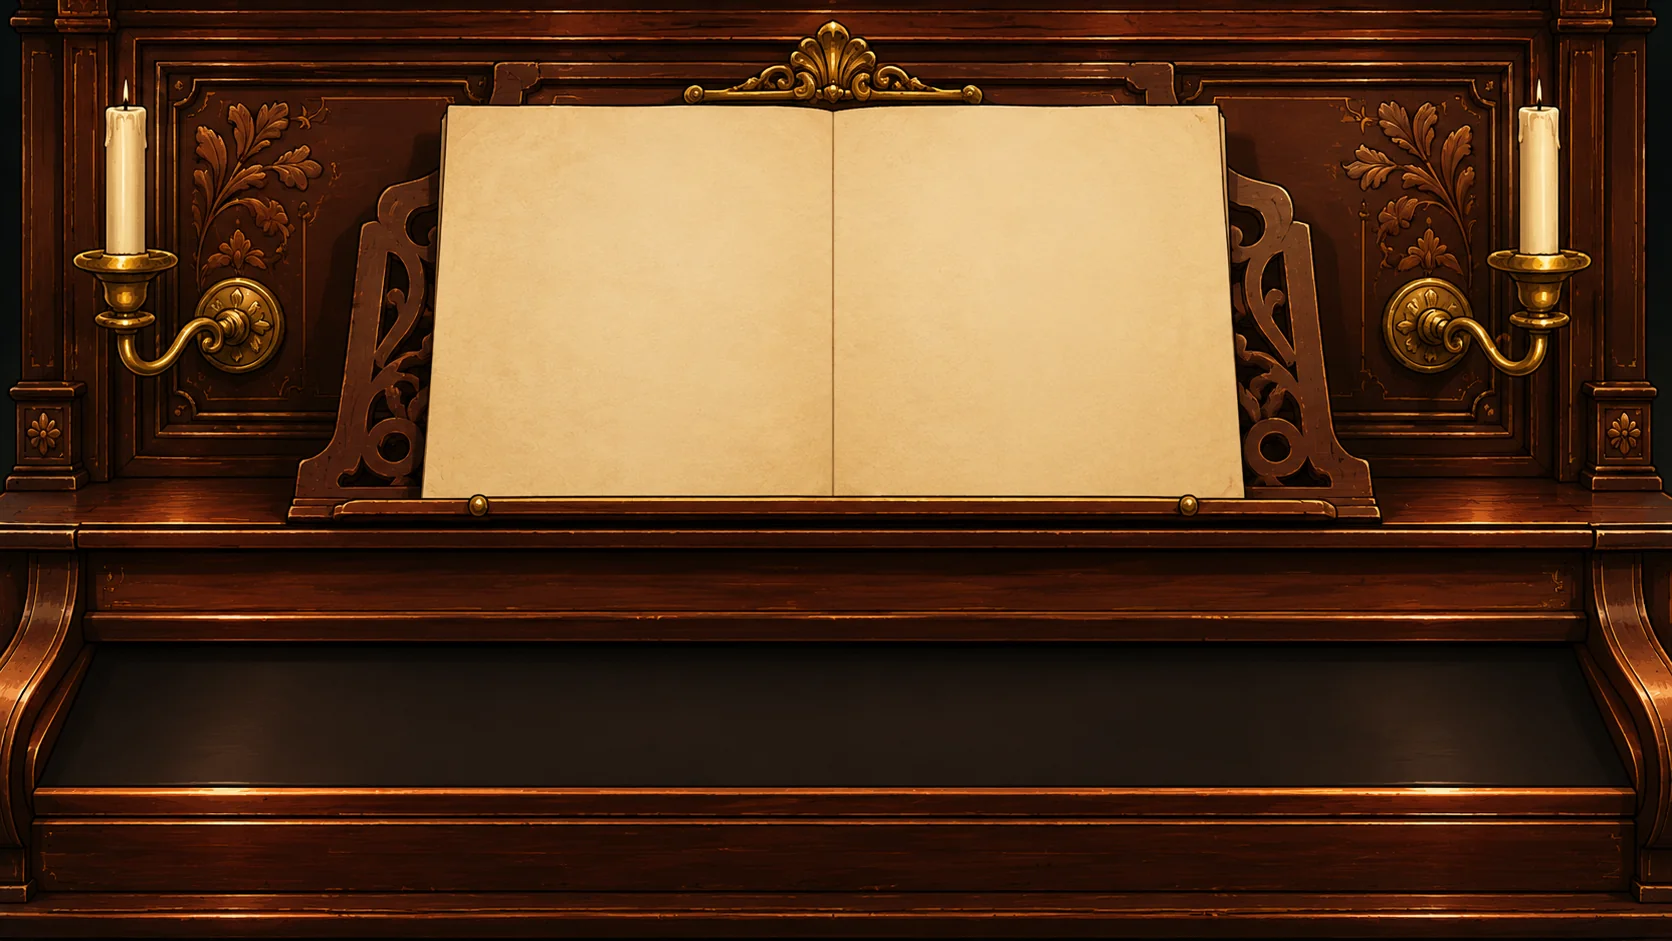
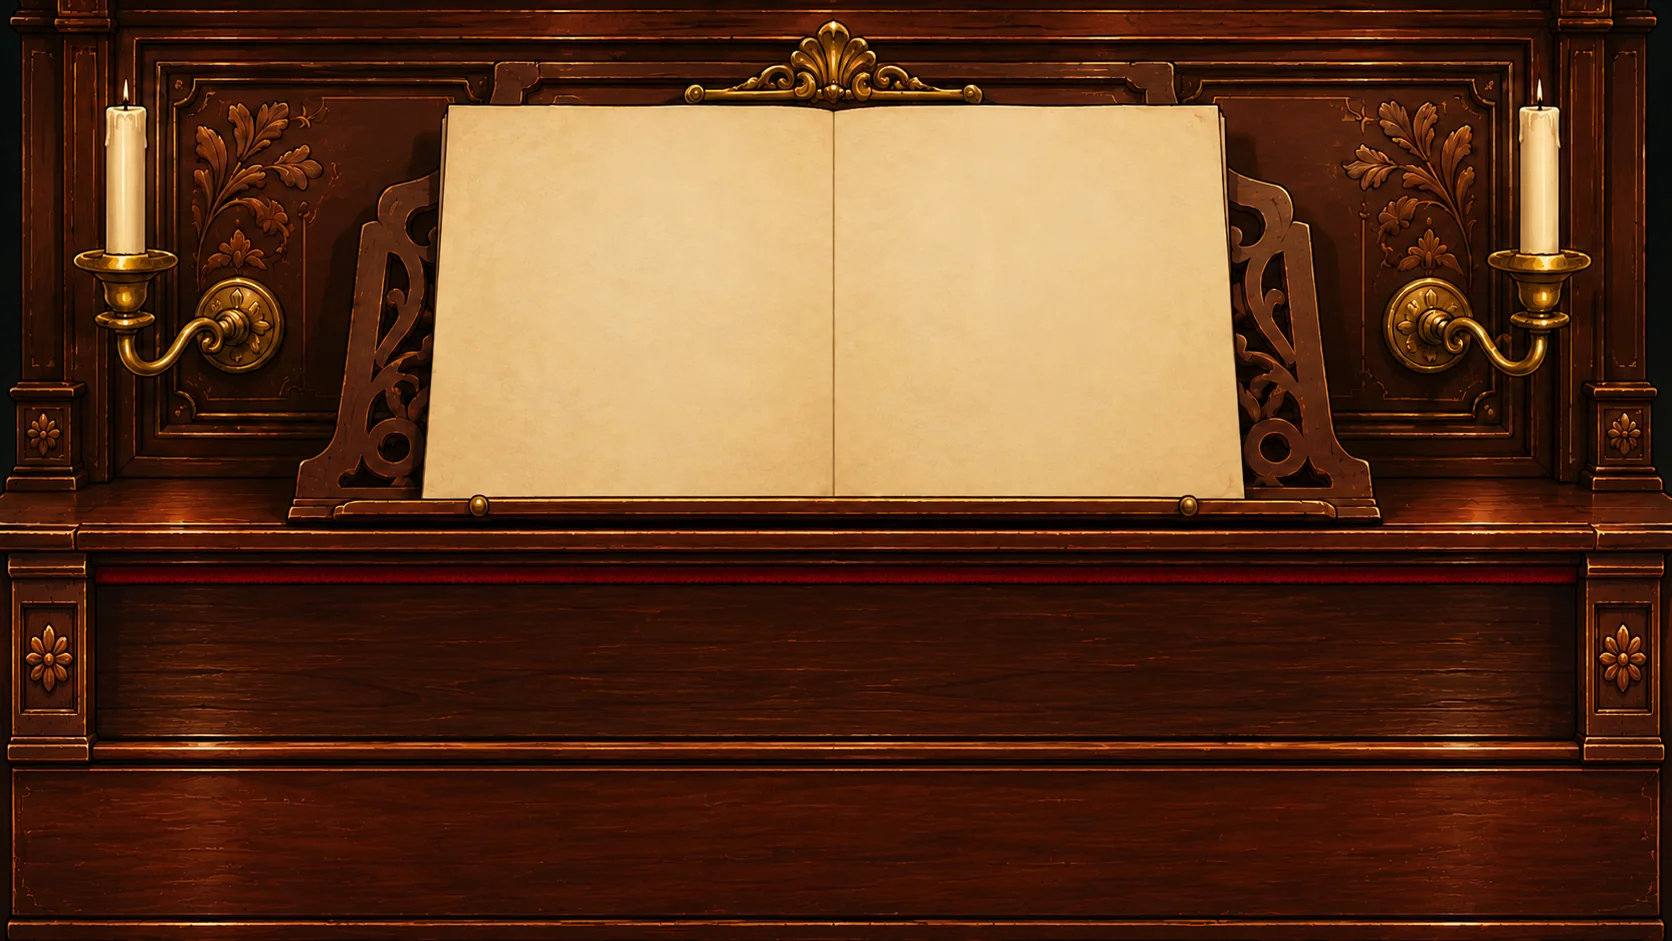
Piano close-up: flat key bed seen from above
closeups/piano now has an empty key bed drawn straight from above (no
perspective), so the playable keys drawn by the game sit flat on it. The
top part (music stand, candles) is unchanged.

Key bed in % of the picture (1672 x 941): left 5.5 %, right 94.5 %,
top 61.5 % (just under the red felt), bottom 78.5 %. Plain panel for the
buttons below it: 80 % to 97 %.

diff --git a/scripts/import_art.py b/scripts/import_art.py
@@ -58,7 +58,7 @@ ASSETS = [
     ("music_store_internal/Ornate Golden Frames on Magenta.png", "sheet", "shop/frames",
      {"max": 768, "dilate": 6, "row": True, "names": ["oval-large", "rect-large", "oval-small", "rect-medium", "rect-small"]}),
     # Close-ups
-    ("music_store_internal/Antique Piano with Blank Sheet Music.png", "opaque", "closeups/piano", {}),
+    ("music_store_internal/Antique Piano with Blank Keybed.png", "opaque", "closeups/piano", {}),
     ("music_store_internal/Antique Wooden Display Cabinet Interior.png", "opaque", "closeups/cabinet", {}),
     ("music_store_internal/Vintage Green Damask Gallery Wall.png", "opaque", "closeups/gallery-wall", {}),
     ("music_store_internal/Antique Phonograph Chest in Sunlit Music Room.png", "opaque", "closeups/gramophone-corner", {}),
